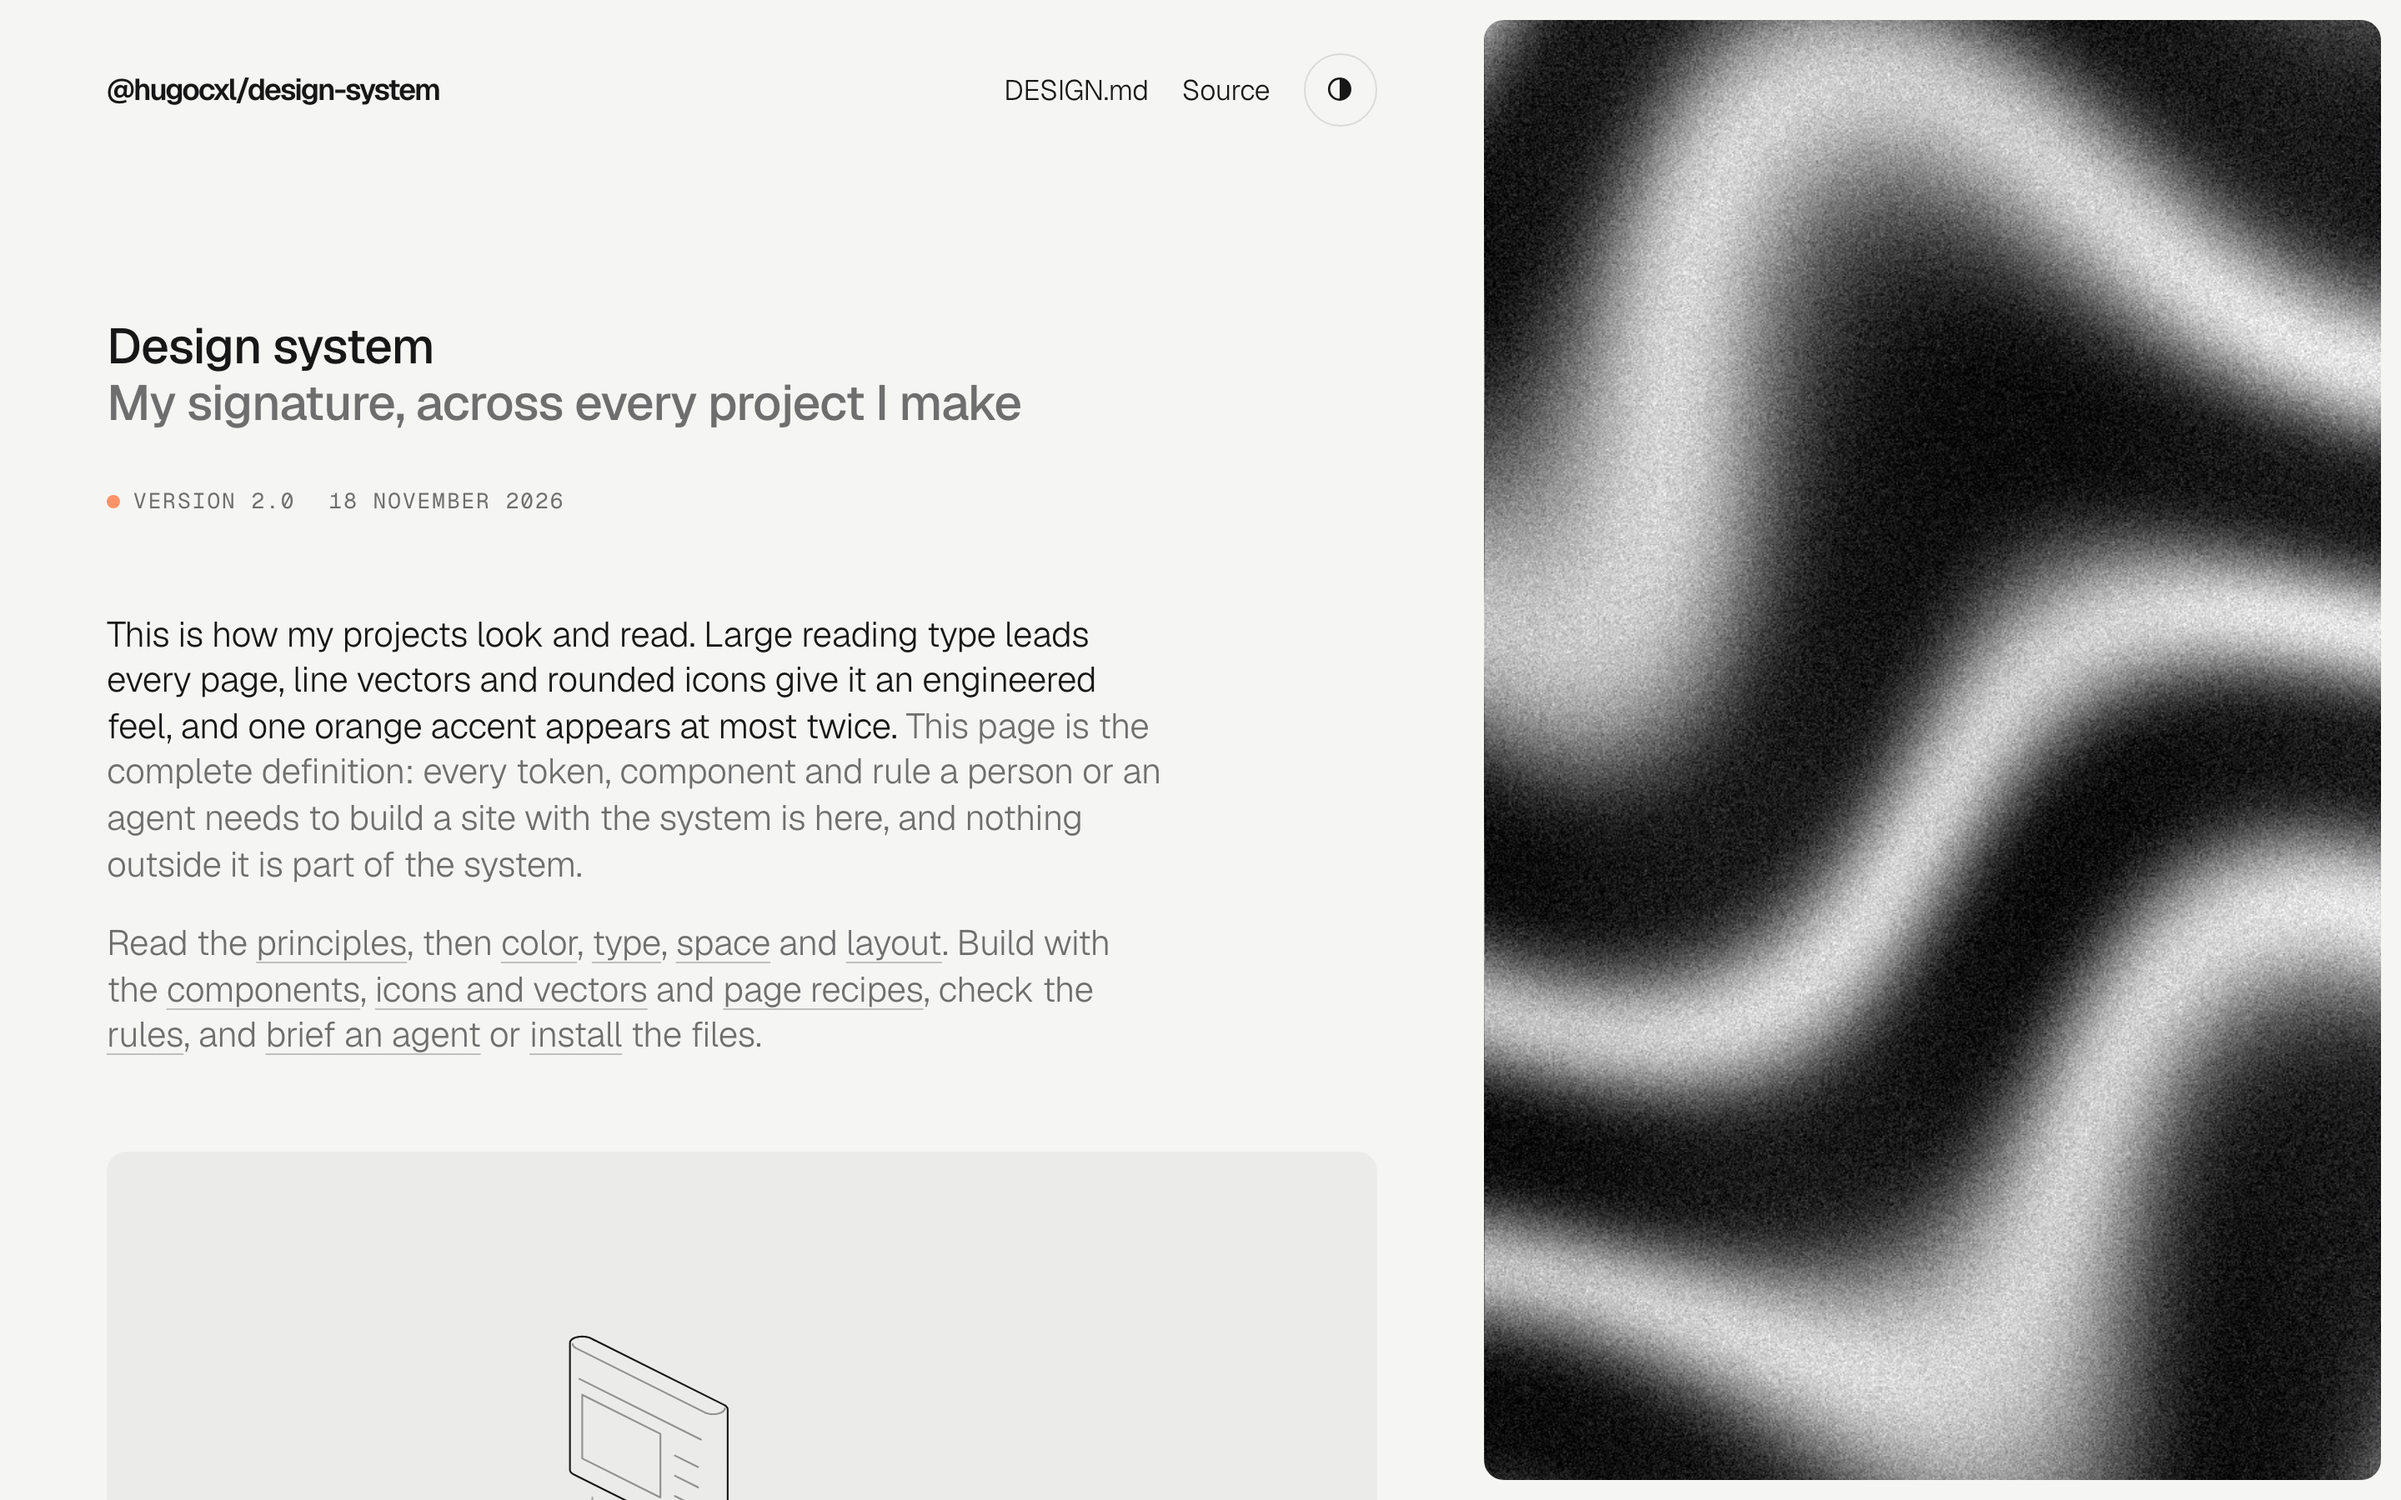
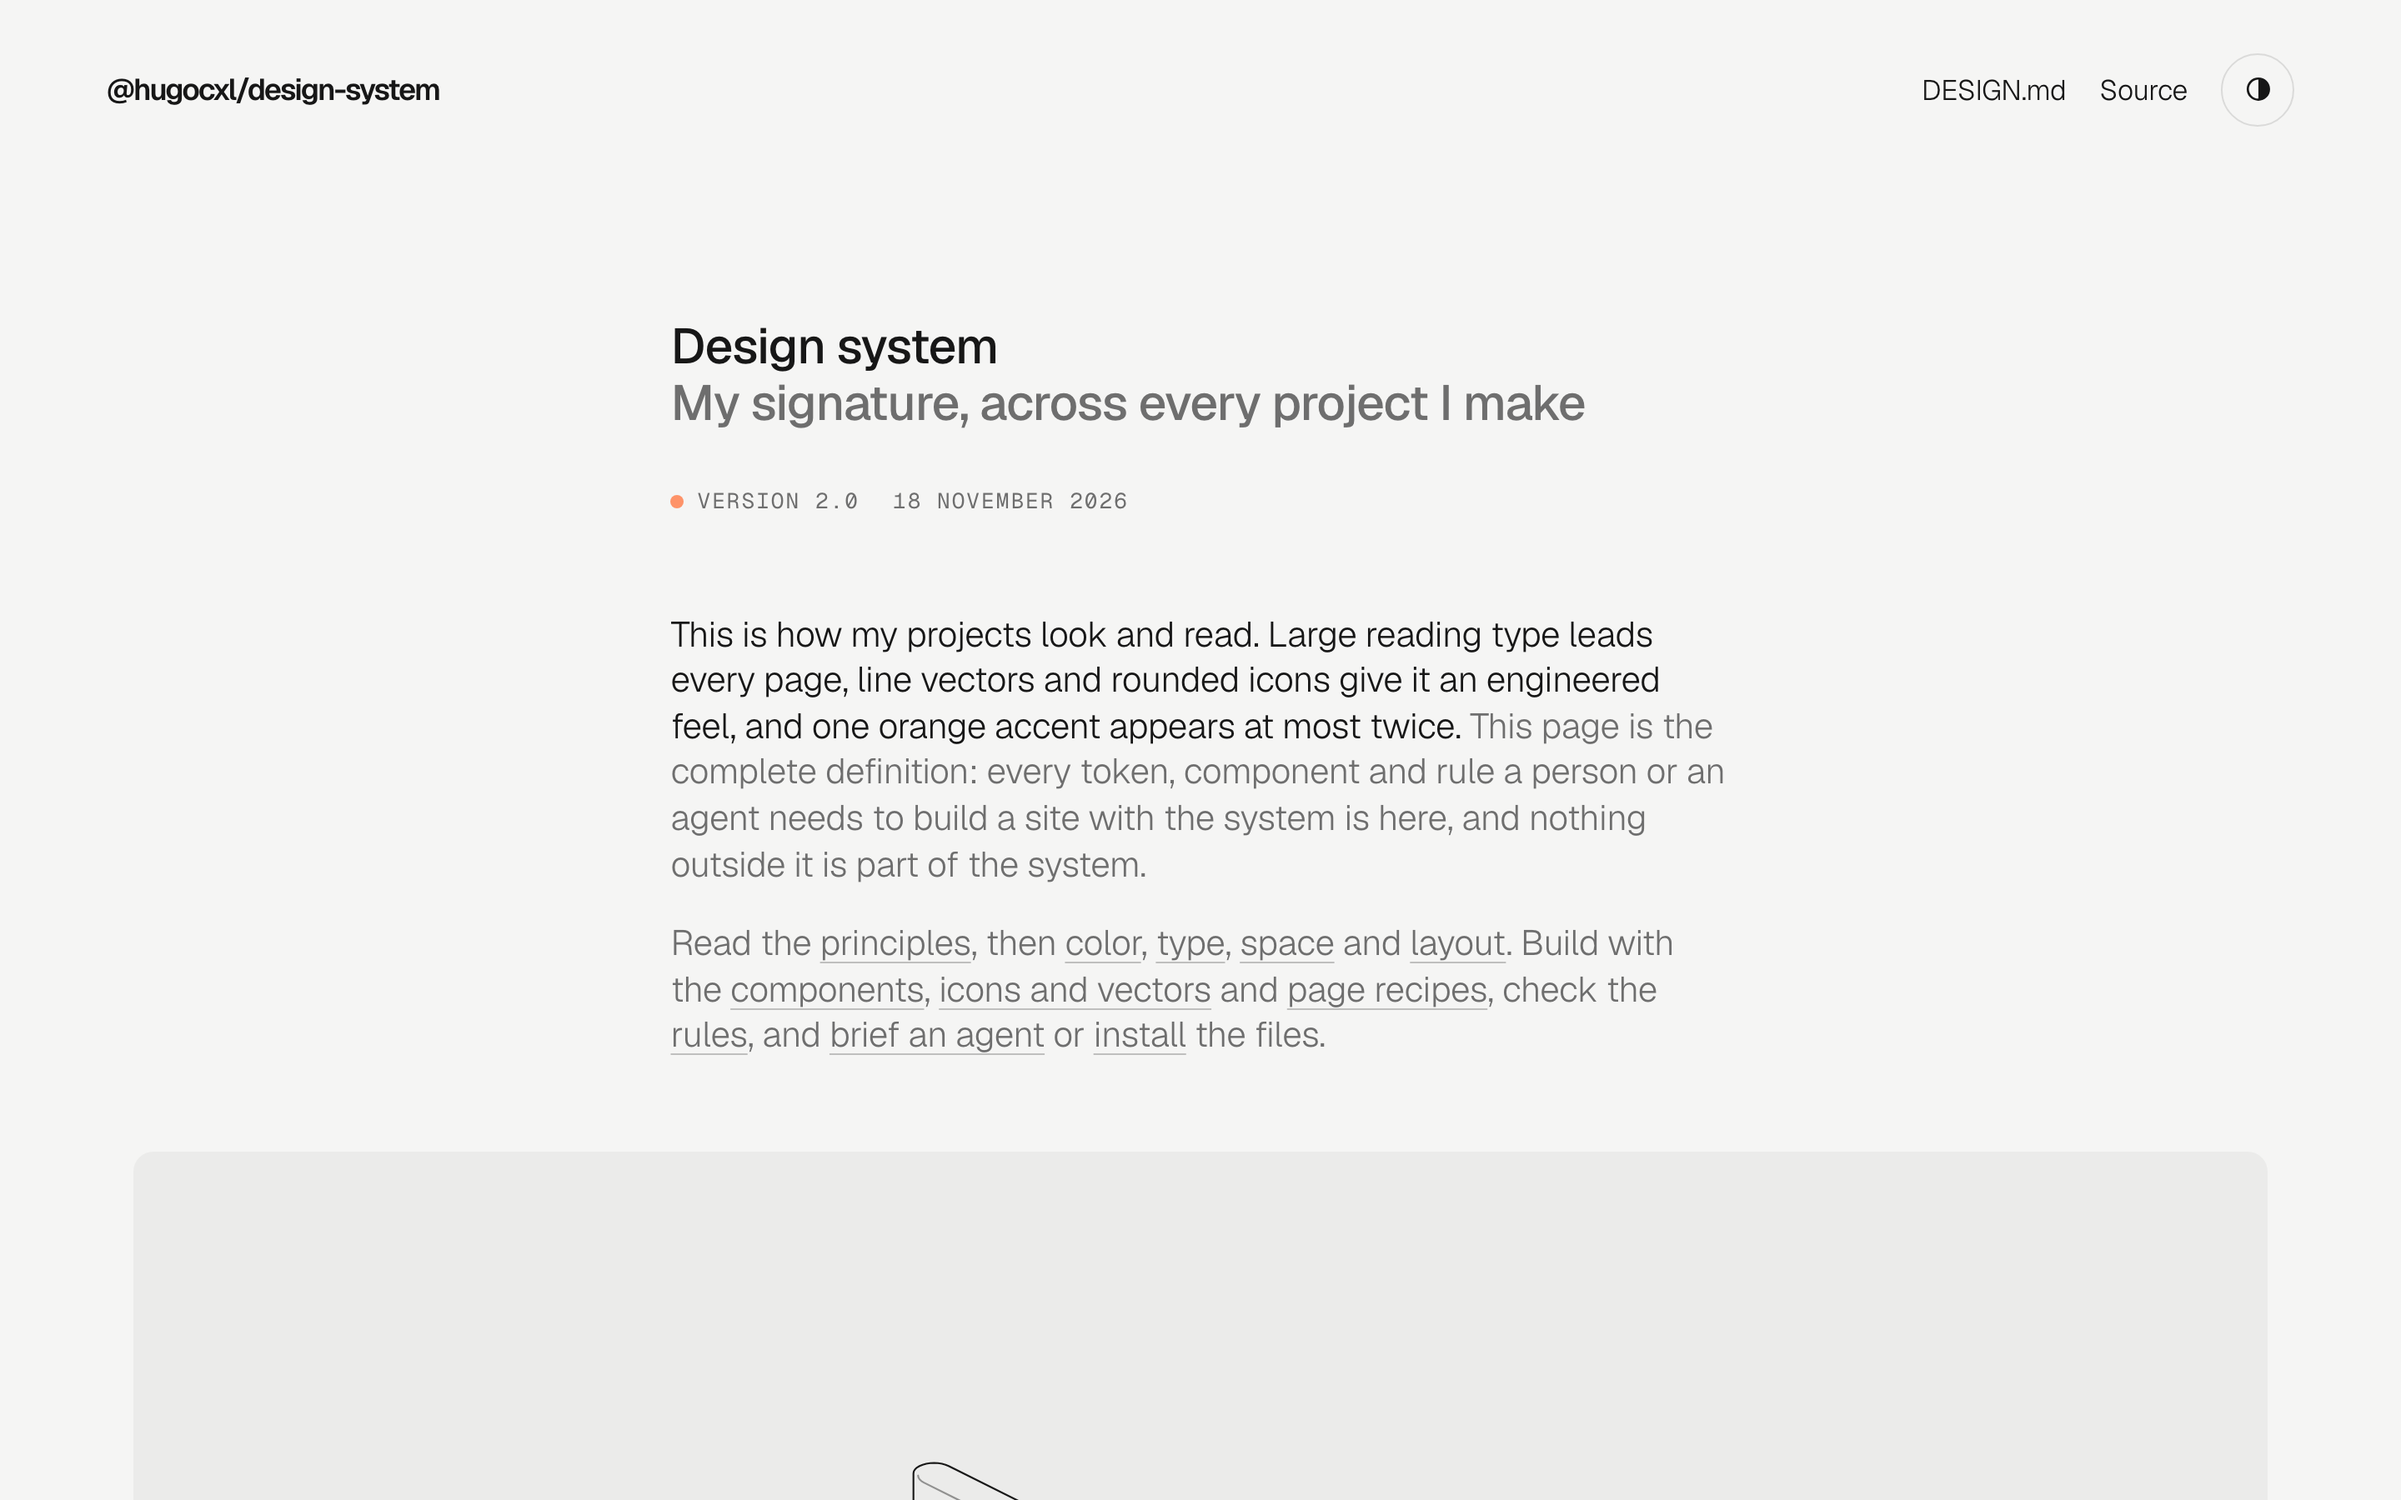
Center every page; keep field for a personal home page
plain is now the default layout for every recipe, home included. field
stays as an opt-in signature for a personal home page and is never used
on product, library or docs sites. The reference page and its example
home page are centered.

diff --git a/index.html b/index.html
@@ -9,7 +9,7 @@
   <link rel="stylesheet" href="preview.css?v=2">
   <script src="system/theme.js?v=2"></script>
 </head>
-<body class="p9" data-layout="field" id="top">
+<body class="p9" data-layout="plain" id="top">
   <header class="p9-masthead">
     <a class="p9-wordmark" href="./">@hugocxl/design-system</a>
     <a href="DESIGN.md" download>DESIGN.md</a>
@@ -118,20 +118,20 @@
 
       <section class="p9-section" id="layout">
         <h2>Layout</h2>
-        <p>Every page uses one of two layouts, set with <code>data-layout</code> on the body. <span class="p9-muted">Text sits in a 30em column, about 65 characters. Wide figures and grids extend to 80rem.</span></p>
+        <p>Every page uses <code>plain</code>, centered, unless it is a personal home page. <span class="p9-muted">Set the layout with <code>data-layout</code> on the body.</span> <span class="p9-muted">Text sits in a 30em column, about 65 characters. Wide figures and grids extend to 80rem.</span></p>
       </section>
       <ul class="p9-grid p9-wide" data-columns="2">
-        <li>
-          <span class="p9-label">Layout / field</span>
-          <div class="doc-schematic" data-layout="field" aria-hidden="true"><span class="doc-col">30em</span><span class="doc-wide">80rem</span><span class="doc-field">field</span></div>
-          <h3>Field</h3>
-          <p>Home and landing pages. The column aligns to the left gutter and a fixed textured panel fills the right: <code>clamp(30vw, 100vw − 2 × gutter − 47.6rem, 40vw)</code>. At 760px and below it becomes a 12px strip.</p>
-        </li>
         <li>
           <span class="p9-label">Layout / plain</span>
           <div class="doc-schematic" data-layout="plain" aria-hidden="true"><span class="doc-col">30em</span><span class="doc-wide">80rem</span></div>
           <h3>Plain</h3>
-          <p>Articles, docs, changelogs, pricing and contact. The column is centered and wide figures are centered on it. The gutter is <code>clamp(1.25rem, 4.5vw, 4rem)</code>.</p>
+          <p>The default for every page, home included. The column is centered and wide figures are centered on it. The gutter is <code>clamp(1.25rem, 4.5vw, 4rem)</code>.</p>
+        </li>
+        <li>
+          <span class="p9-label">Layout / field</span>
+          <div class="doc-schematic" data-layout="field" aria-hidden="true"><span class="doc-col">30em</span><span class="doc-wide">80rem</span><span class="doc-field">field</span></div>
+          <h3>Field</h3>
+          <p>Optional, for a personal home page only, such as hugocxl.me. Never on product, library or docs sites. The column aligns to the left gutter and a fixed textured panel fills the right: <code>clamp(30vw, 100vw − 2 × gutter − 47.6rem, 40vw)</code>. At 760px and below it becomes a 12px strip.</p>
         </li>
       </ul>
 
@@ -362,6 +362,7 @@ import { ModularDesignVector } from '@hugocxl/vectors/react/modular-design';
           <li>Keep the SVG’s <code>title</code> and <code>desc</code>: they are its accessible name.</li>
           <li>Use screenshots as <code>&lt;img&gt;</code> only when the subject is the product itself.</li>
           <li>Never crop a vector, color it with the accent or place it on the field.</li>
+          <li>Use the <code>field</code> layout only on a personal home page.</li>
         </ul>
       </section>
 
@@ -372,7 +373,7 @@ import { ModularDesignVector } from '@hugocxl/vectors/react/modular-design';
           <table class="p9-table doc-recipes">
             <thead><tr><th scope="col">Recipe</th><th scope="col">Layout</th><th scope="col">Sequence</th></tr></thead>
             <tbody>
-              <tr><th scope="row"><code>home</code></th><td>field</td><td><code>masthead statement meta? section (figure-wide | figure-grid) section* (button | form)? footer</code></td></tr>
+              <tr><th scope="row"><code>home</code></th><td>plain (field on a personal site)</td><td><code>masthead statement meta? section (figure-wide | figure-grid) section* (button | form)? footer</code></td></tr>
               <tr><th scope="row"><code>article</code></th><td>plain</td><td><code>masthead title meta section figure-wide? section+ form? footer</code></td></tr>
               <tr><th scope="row"><code>docs</code></th><td>plain</td><td><code>masthead title meta? section (section | figure-wide)* footer</code></td></tr>
               <tr><th scope="row"><code>changelog</code></th><td>plain</td><td><code>masthead title section? index footer</code></td></tr>
@@ -421,7 +422,6 @@ import { ModularDesignVector } from '@hugocxl/vectors/react/modular-design';
             <ul><li><a href="#recipes">Privacy</a></li></ul>
           </footer>
         </div>
-        <div class="doc-example-field" aria-hidden="true"></div>
       </div>
 
       <section class="p9-section" id="rules">

diff --git a/preview.css b/preview.css
@@ -23,7 +23,7 @@
 .doc-specimen :where(.p9-masthead, .p9-meta, .p9-section, .p9-form) { margin-top: 0; padding-top: 0 }
 .doc-specimen .p9-footer { margin-top: 0; padding-bottom: 0 }
 .doc-specimen .p9-wide { margin-block: 0 }
-.doc-component[data-wide] > :is(.doc-specimen, .p9-code) { width: min(100cqw, var(--p9-wide)) }
+.doc-component[data-wide] > :is(.doc-specimen, .p9-code) { width: min(100cqw, var(--p9-wide)); margin-inline: calc((100% - min(100cqw, var(--p9-wide))) / 2) }
 .doc-note { margin-top: var(--p9-space-4); font-size: var(--p9-size-small) }
 
 .doc-palette :where(td, th) { white-space: nowrap }
@@ -56,22 +56,12 @@
 .doc-schematic[data-layout=plain] .doc-col { left: 30%; width: 40% }
 .doc-schematic[data-layout=plain] .doc-wide { left: 8%; width: 84% }
 
-/* The example home page, framed with its own field. */
+/* The example home page: a plain, centered page inside a frame. */
 .doc-example {
-  display: grid;
-  grid-template-columns: minmax(0, 1fr) 16%;
-  gap: var(--p9-space-5);
-  padding: 0 var(--p9-space-3) 0 var(--p9-space-6);
+  padding: 0 var(--p9-space-6);
   border: 1px solid var(--p9-rule);
   border-radius: var(--p9-radius-media);
 }
 .doc-example-page { container-type: inline-size; min-width: 0 }
-.doc-example-page .p9-column { margin-inline: 0 }
 .doc-example-page .p9-opening { padding-top: var(--p9-space-9) }
-.doc-example-page .p9-wide { margin-inline: 0 }
-.doc-example-field { margin-block: var(--p9-space-3); border-radius: var(--p9-radius-media); background: #777 url("system/images/gray-folds.png") center / cover }
-@container (max-width: 40rem) {
-  .doc-example { grid-template-columns: minmax(0, 1fr) 12px; padding-left: var(--p9-space-4) }
-  .doc-example-field { border-radius: 5px }
-}
 .doc-stack-example { margin-block: var(--p9-space-5) }

diff --git a/DESIGN.md b/DESIGN.md
@@ -207,8 +207,8 @@ Supporting sentences follow the main thought in the same paragraph, wrapped in `
 
 Set the layout with `data-layout` on `<body class="p9">`. There are two layouts:
 
-- **`field`** is for home only. The column aligns to the left gutter. A fixed textured panel fills the right side at `clamp(30vw, 100vw − 2 × gutter − 47.6rem, 40vw)`, inset 12px with a 12px radius. At 760px and below the field becomes a 12px strip.
-- **`plain`** is for every other recipe. The column is centered, and wide figures are centered on the column.
+- **`plain`** is the default for every page, home included. The column is centered, and wide figures are centered on the column. Nothing sits beside the content.
+- **`field`** is an optional signature for a personal home page, such as hugocxl.me, and nowhere else. The column aligns to the left gutter and a fixed textured panel fills the right side at `clamp(30vw, 100vw − 2 × gutter − 47.6rem, 40vw)`, inset 12px with a 12px radius. At 760px and below the field becomes a 12px strip. Never use it on product, library or documentation sites.
 
 The column (`.p9-column`) is 30em of reading type, about 65 characters. `.p9-wide` elements (figures and grids) extend to `min(main width, 80rem)`. The gutter is `clamp(1.25rem, 4.5vw, 4rem)`. The opening padding is `clamp(80px, 8vw, 128px)`.
 
@@ -233,7 +233,7 @@ A recipe fixes the layout and the component order. `?` means optional, `+` one o
 
 | Recipe | Layout | Sequence |
 | --- | --- | --- |
-| `home` | field | `masthead statement meta? section (figure-wide \| figure-grid) section* (button \| form)? footer` |
+| `home` | plain (field on a personal site) | `masthead statement meta? section (figure-wide \| figure-grid) section* (button \| form)? footer` |
 | `article` | plain | `masthead title meta section figure-wide? section+ form? footer` |
 | `docs` | plain | `masthead title meta? section (section \| figure-wide)* footer` |
 | `changelog` | plain | `masthead title section? index footer` |
@@ -517,6 +517,7 @@ import { ModularDesignVector } from '@hugocxl/vectors/react/modular-design';
 - Keep the SVG's `title` and `desc`: they are its accessible name.
 - Use an `<img>` only for a screenshot of the product itself.
 - Never crop a vector, color it with the accent or place it on the field.
+- Use the `field` layout only on a personal home page.
 
 ## Do's and Don'ts
 
